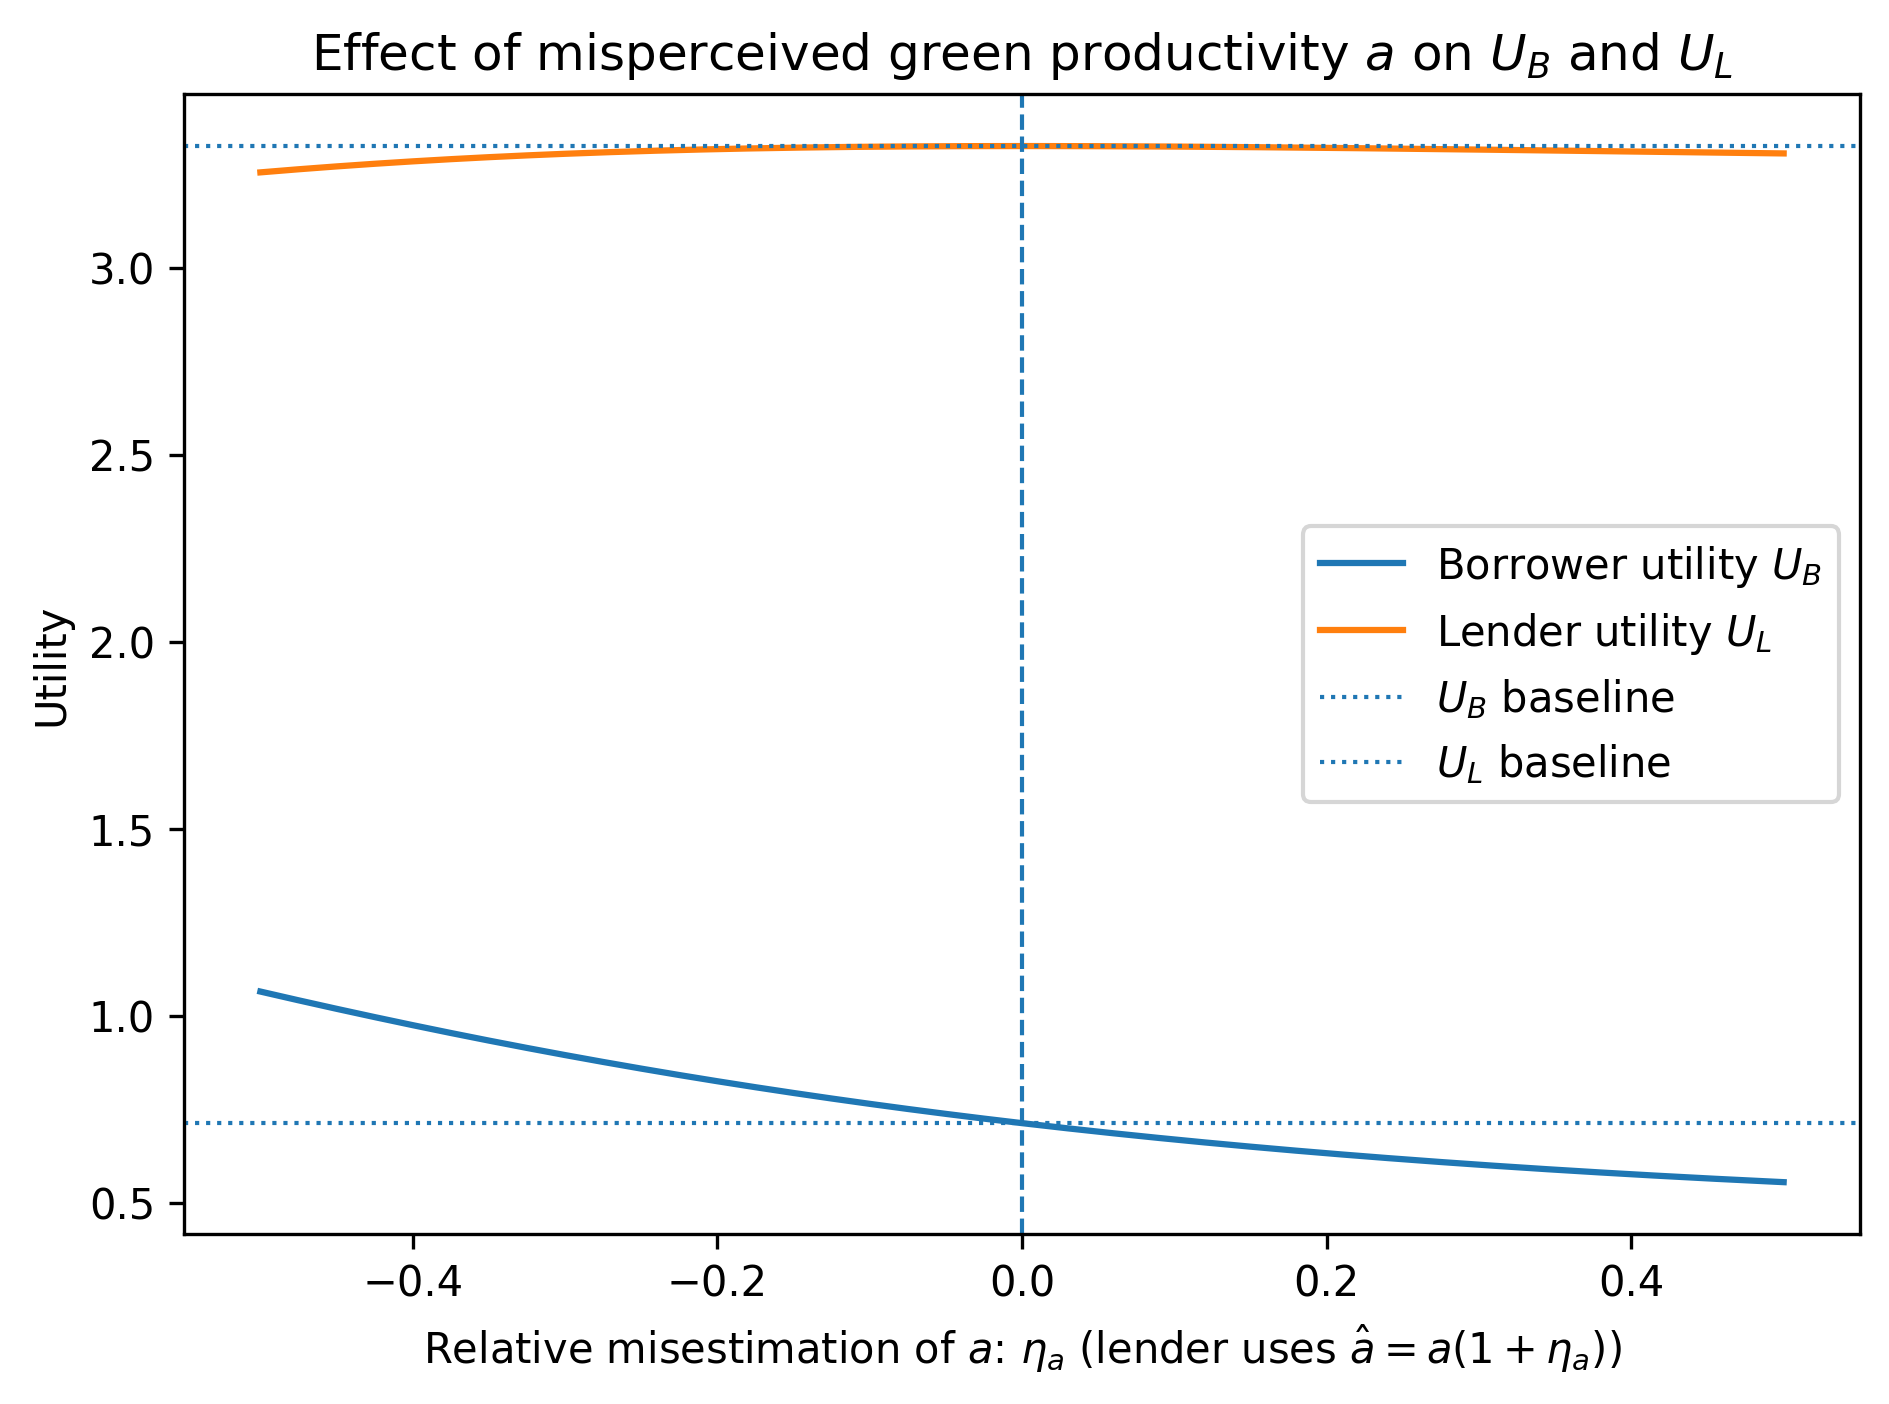
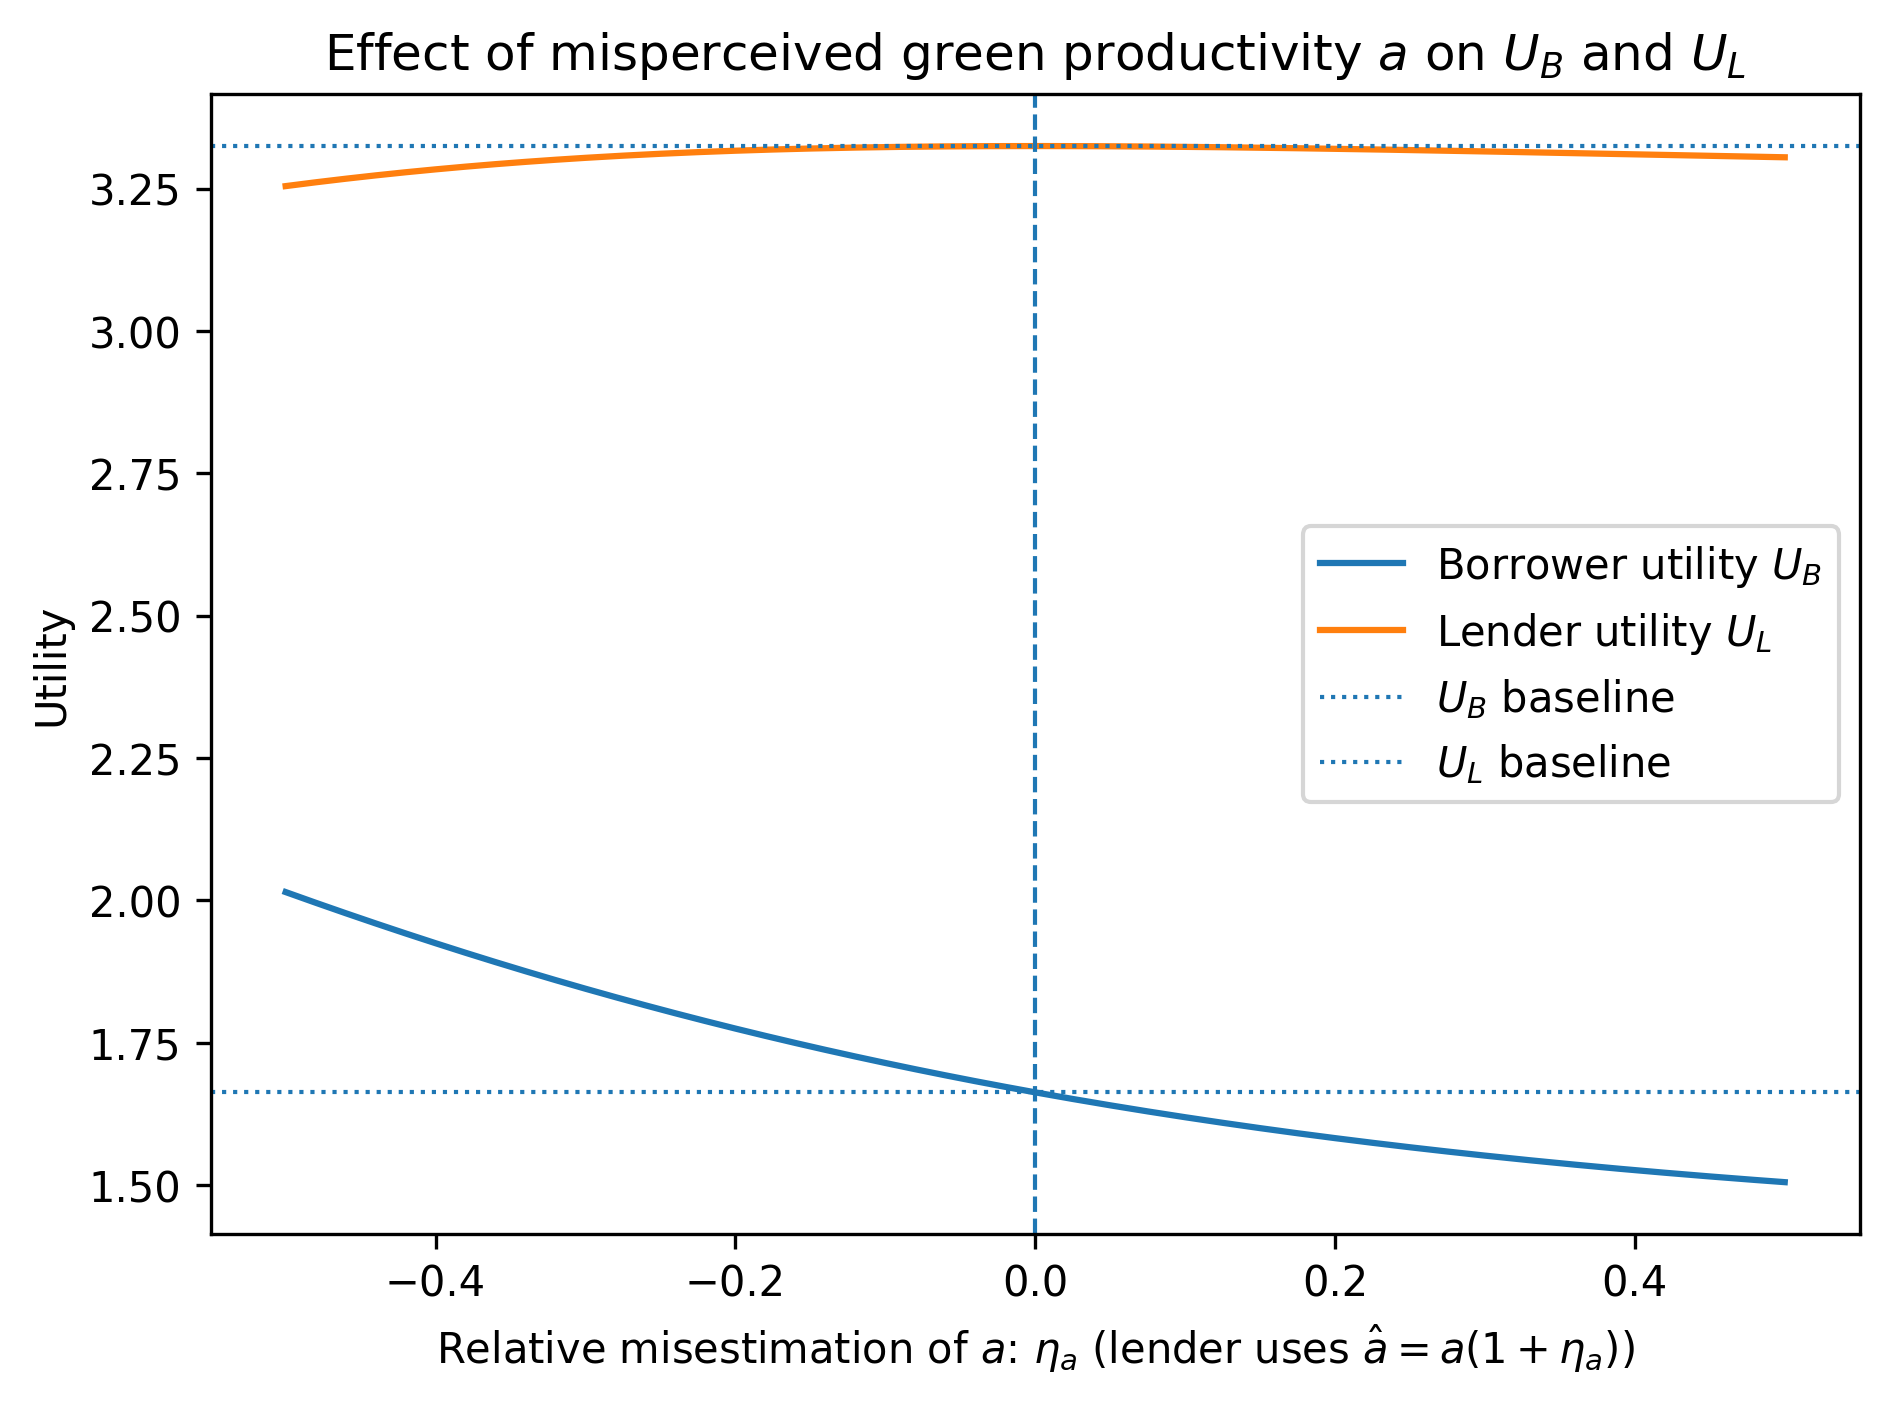
hehe

diff --git a/Johne v4.py b/Johne v4.py
@@ -24,9 +24,9 @@ Dbar1    = 1.0    # baseline coupon / face value period 1
 Dbar2    = 1.0    # baseline coupon / face value period 2
 Gbar1    = 1.0    # period 1 green threshold Ḡ_1
 
-k_gamma  = 1.0    # cost of contractual terms (set to 0 here to keep focus on a,b)
-Cbar1    = 1.0
-Cbar2    = 1.0
+k_gamma  = 0.0    # cost of contractual terms (set to 0 here to keep focus on a,b)
+Cbar1    = 0.0
+Cbar2    = 0.0
 
 # ============================================================
 # 2. BASIC MODEL FUNCTIONS (AS IN YOUR THESIS)
@@ -323,3 +323,287 @@ print(f"Lender utility UL_baseline:   {UL_base:.4f}")
 print(f"Lender utility UL_test:       {UL_test:.4f}")
 print(f"Absolute change in UL:        {UL_test - UL_base:.4f}")
 print(f"Percent change in UL:         {(UL_test - UL_base) / UL_base * 100:.2f}%")
+
+# ============================================================
+# COMPUTE EFFECT OF -5% MISPERCEPTION IN a (η_a = -0.05)
+# ============================================================
+
+eta_test = -0.05
+a_hat = a_true * (1 + eta_test)
+
+# Step 1: Lender chooses psi* under misperceived a
+psi1_test, psi2_test = lender_optimal_psi(
+    a_hat, b_true, k_e, k_mu, alpha, theta,
+    delta, rho, z1, z2, x1, x2
+)
+
+# Step 2: Borrower reacts using TRUE technology
+e1_test, e2_test, mu1_test, mu2_test = borrower_optima(
+    psi1_test, psi2_test, a_true, b_true, k_e, k_mu, alpha, delta, rho
+)
+
+# Step 3: Compute repayments and utilities under true a,b
+D1_test, D2_test, g1_test, g2_test = repayments(
+    psi1_test, psi2_test,
+    e1_test, e2_test, mu1_test, mu2_test,
+    a_true, b_true, k_e, k_mu, alpha,
+    Dbar1, Dbar2, z1, z2, x1, x2, rho, Gbar1
+)
+
+UB_test = borrower_utility(
+    psi1_test, psi2_test,
+    e1_test, e2_test, mu1_test, mu2_test,
+    a_true, b_true, k_e, k_mu, alpha,
+    D1_test, D2_test, delta, k_gamma, Cbar1, Cbar2
+)
+
+UL_test = lender_utility(D1_test, D2_test, g1_test, g2_test, theta, delta)
+
+# ============================================================
+# PRINT RESULTS
+# ============================================================
+
+print("=== Effect of 5% lender underestimation of a (η_a = -0.05) ===")
+print()
+
+print(f"Baseline ψ₁*: {psi1_base:.4f},  New ψ₁*: {psi1_test:.4f},  Change = {psi1_test - psi1_base:.4f}")
+print(f"Baseline ψ₂*: {psi2_base:.4f},  New ψ₂*: {psi2_test:.4f},  Change = {psi2_test - psi2_base:.4f}")
+print()
+
+print(f"Borrower utility UB_baseline: {UB_base:.4f}")
+print(f"Borrower utility UB_test:     {UB_test:.4f}")
+print(f"Absolute change in UB:        {UB_test - UB_base:.4f}")
+print(f"Percent change in UB:         {(UB_test - UB_base) / UB_base * 100:.2f}%")
+print()
+
+print(f"Lender utility UL_baseline:   {UL_base:.4f}")
+print(f"Lender utility UL_test:       {UL_test:.4f}")
+print(f"Absolute change in UL:        {UL_test - UL_base:.4f}")
+print(f"Percent change in UL:         {(UL_test - UL_base) / UL_base * 100:.2f}%")
+
+# ============================================================
+# 8. SENSITIVITY ANALYSIS: MISPERCEPTION OF b (η_b)
+# ============================================================
+
+# Range of misestimation: η_b in [-0.5, 0.5] = [-50%, +50%]
+eta_b_grid = np.linspace(-0.5, 0.5, 201)
+
+UB_b_list  = []
+UL_b_list  = []
+psi1_b_list = []
+psi2_b_list = []
+
+for eta_b in eta_b_grid:
+    # Lender’s misperceived technology (now only b distorted)
+    a_hat = a_true            # lender gets a right
+    b_hat = b_true * (1.0 + eta_b)
+
+    # Lender chooses ψ* based on misperceived (a_hat, b_hat)
+    psi1_b, psi2_b = lender_optimal_psi(
+        a_hat, b_hat, k_e, k_mu, alpha, theta,
+        delta, rho, z1, z2, x1, x2
+    )
+
+    # Borrower reacts using TRUE technology (a_true, b_true)
+    e1_b, e2_b, mu1_b, mu2_b = borrower_optima(
+        psi1_b, psi2_b, a_true, b_true, k_e, k_mu, alpha, delta, rho
+    )
+
+    # Repayments and signals under true technology
+    D1_b, D2_b, g1_b, g2_b = repayments(
+        psi1_b, psi2_b, e1_b, e2_b, mu1_b, mu2_b,
+        a_true, b_true, k_e, k_mu, alpha,
+        Dbar1, Dbar2, z1, z2, x1, x2, rho, Gbar1
+    )
+
+    # Utilities under true technology
+    UB_b = borrower_utility(
+        psi1_b, psi2_b, e1_b, e2_b, mu1_b, mu2_b,
+        a_true, b_true, k_e, k_mu, alpha,
+        D1_b, D2_b, delta, k_gamma, Cbar1, Cbar2
+    )
+    UL_b = lender_utility(D1_b, D2_b, g1_b, g2_b, theta, delta)
+
+    UB_b_list.append(UB_b)
+    UL_b_list.append(UL_b)
+    psi1_b_list.append(psi1_b)
+    psi2_b_list.append(psi2_b)
+
+UB_b_arr   = np.array(UB_b_list)
+UL_b_arr   = np.array(UL_b_list)
+psi1_b_arr = np.array(psi1_b_list)
+psi2_b_arr = np.array(psi2_b_list)
+
+plt.figure()
+plt.plot(eta_b_grid, UB_b_arr, label="Borrower utility $U_B$")
+plt.plot(eta_b_grid, UL_b_arr, label="Lender utility $U_L$")
+plt.axvline(0.0, linestyle="--", linewidth=1)
+plt.axhline(UB_base, linestyle=":", linewidth=1, label="$U_B$ baseline")
+plt.axhline(UL_base, linestyle=":", linewidth=1, label="$U_L$ baseline")
+plt.xlabel(r"Relative misestimation of $b$: $\eta_b$ (lender uses $\hat b = b(1+\eta_b)$)")
+plt.ylabel("Utility")
+plt.title("Effect of misperceived repayment productivity $b$ on $U_B$ and $U_L$")
+plt.legend()
+plt.tight_layout()
+
+plt.figure()
+plt.plot(eta_b_grid, UB_b_arr - UB_base, label=r"$U_B(\eta_b) - U_B^{baseline}$")
+plt.plot(eta_b_grid, UL_b_arr - UL_base, label=r"$U_L(\eta_b) - U_L^{baseline}$")
+plt.axhline(0.0, linestyle="--", linewidth=1)
+plt.axvline(0.0, linestyle="--", linewidth=1)
+plt.xlabel(r"Relative misestimation of $b$: $\eta_b$")
+plt.ylabel("Utility difference vs baseline")
+plt.title("Sensitivity of utilities to misperceived repayment productivity $b$")
+plt.legend()
+plt.tight_layout()
+plt.savefig("UTILDiffsBbB.png", dpi=300, bbox_inches="tight")
+
+plt.figure()
+plt.plot(eta_b_grid, psi1_b_arr, label=r"$\psi_1^*(\eta_b)$")
+plt.plot(eta_b_grid, psi2_b_arr, label=r"$\psi_2^*(\eta_b)$")
+plt.axvline(0.0, linestyle="--", linewidth=1)
+plt.xlabel(r"Relative misestimation of $b$: $\eta_b$")
+plt.ylabel(r"SLB intensity $\psi_t$")
+plt.title("Effect of repayment productivity misperception on optimal SLB intensities")
+plt.legend()
+plt.ylim(-0.05, 1.05)
+plt.tight_layout()
+plt.show()
+
+# ============================================================
+# COMPUTE EFFECT OF 5% MISPERCEPTION IN b (η_b = 0.05)
+# ============================================================
+
+eta_b_test = 0.05
+a_hat = a_true                    # lender perceives a correctly
+b_hat = b_true * (1 + eta_b_test)  # lender overestimates b
+
+# Step 1: Lender chooses psi* under misperceived b
+psi1_btest, psi2_btest = lender_optimal_psi(
+    a_hat, b_hat,
+    k_e, k_mu, alpha, theta,
+    delta, rho, z1, z2, x1, x2
+)
+
+# Step 2: Borrower reacts using TRUE technology (a_true, b_true)
+e1_btest, e2_btest, mu1_btest, mu2_btest = borrower_optima(
+    psi1_btest, psi2_btest,
+    a_true, b_true,
+    k_e, k_mu, alpha, delta, rho
+)
+
+# Step 3: Compute repayments and utilities under TRUE technology
+D1_btest, D2_btest, g1_btest, g2_btest = repayments(
+    psi1_btest, psi2_btest,
+    e1_btest, e2_btest, mu1_btest, mu2_btest,
+    a_true, b_true,
+    k_e, k_mu, alpha,
+    Dbar1, Dbar2,
+    z1, z2, x1, x2,
+    rho, Gbar1
+)
+
+UB_btest = borrower_utility(
+    psi1_btest, psi2_btest,
+    e1_btest, e2_btest, mu1_btest, mu2_btest,
+    a_true, b_true, k_e, k_mu, alpha,
+    D1_btest, D2_btest,
+    delta, k_gamma, Cbar1, Cbar2
+)
+
+UL_btest = lender_utility(
+    D1_btest, D2_btest,
+    g1_btest, g2_btest,
+    theta, delta
+)
+
+# ============================================================
+# PRINT RESULTS
+# ============================================================
+
+print("=== Effect of 5% lender overestimation of b (η_b = 0.05) ===")
+print()
+
+print(f"Baseline ψ₁*: {psi1_base:.4f},  New ψ₁*: {psi1_btest:.4f},  Change = {psi1_btest - psi1_base:.4f}")
+print(f"Baseline ψ₂*: {psi2_base:.4f},  New ψ₂*: {psi2_btest:.4f},  Change = {psi2_btest - psi2_base:.4f}")
+print()
+
+print(f"Borrower utility UB_baseline: {UB_base:.4f}")
+print(f"Borrower utility UB_test:     {UB_btest:.4f}")
+print(f"Absolute change in UB:        {UB_btest - UB_base:.4f}")
+print(f"Percent change in UB:         {(UB_btest - UB_base) / UB_base * 100:.2f}%")
+print()
+
+print(f"Lender utility UL_baseline:   {UL_base:.4f}")
+print(f"Lender utility UL_test:       {UL_btest:.4f}")
+print(f"Absolute change in UL:        {UL_btest - UL_base:.4f}")
+print(f"Percent change in UL:         {(UL_btest - UL_base) / UL_base * 100:.2f}%")
+
+# ============================================================
+# COMPUTE EFFECT OF -5% MISPERCEPTION IN b (η_b = -0.05)
+# ============================================================
+
+eta_b_test = -0.05
+a_hat = a_true                    # lender perceives a correctly
+b_hat = b_true * (1 + eta_b_test)  # lender overestimates b
+
+# Step 1: Lender chooses psi* under misperceived b
+psi1_btest, psi2_btest = lender_optimal_psi(
+    a_hat, b_hat,
+    k_e, k_mu, alpha, theta,
+    delta, rho, z1, z2, x1, x2
+)
+
+# Step 2: Borrower reacts using TRUE technology (a_true, b_true)
+e1_btest, e2_btest, mu1_btest, mu2_btest = borrower_optima(
+    psi1_btest, psi2_btest,
+    a_true, b_true,
+    k_e, k_mu, alpha, delta, rho
+)
+
+# Step 3: Compute repayments and utilities under TRUE technology
+D1_btest, D2_btest, g1_btest, g2_btest = repayments(
+    psi1_btest, psi2_btest,
+    e1_btest, e2_btest, mu1_btest, mu2_btest,
+    a_true, b_true,
+    k_e, k_mu, alpha,
+    Dbar1, Dbar2,
+    z1, z2, x1, x2,
+    rho, Gbar1
+)
+
+UB_btest = borrower_utility(
+    psi1_btest, psi2_btest,
+    e1_btest, e2_btest, mu1_btest, mu2_btest,
+    a_true, b_true, k_e, k_mu, alpha,
+    D1_btest, D2_btest,
+    delta, k_gamma, Cbar1, Cbar2
+)
+
+UL_btest = lender_utility(
+    D1_btest, D2_btest,
+    g1_btest, g2_btest,
+    theta, delta
+)
+
+# ============================================================
+# PRINT RESULTS
+# ============================================================
+
+print("=== Effect of 5% lender underestimation of b (η_b = -0.05) ===")
+print()
+
+print(f"Baseline ψ₁*: {psi1_base:.4f},  New ψ₁*: {psi1_btest:.4f},  Change = {psi1_btest - psi1_base:.4f}")
+print(f"Baseline ψ₂*: {psi2_base:.4f},  New ψ₂*: {psi2_btest:.4f},  Change = {psi2_btest - psi2_base:.4f}")
+print()
+
+print(f"Borrower utility UB_baseline: {UB_base:.4f}")
+print(f"Borrower utility UB_test:     {UB_btest:.4f}")
+print(f"Absolute change in UB:        {UB_btest - UB_base:.4f}")
+print(f"Percent change in UB:         {(UB_btest - UB_base) / UB_base * 100:.2f}%")
+print()
+
+print(f"Lender utility UL_baseline:   {UL_base:.4f}")
+print(f"Lender utility UL_test:       {UL_btest:.4f}")
+print(f"Absolute change in UL:        {UL_btest - UL_base:.4f}")
+print(f"Percent change in UL:         {(UL_btest - UL_base) / UL_base * 100:.2f}%")
